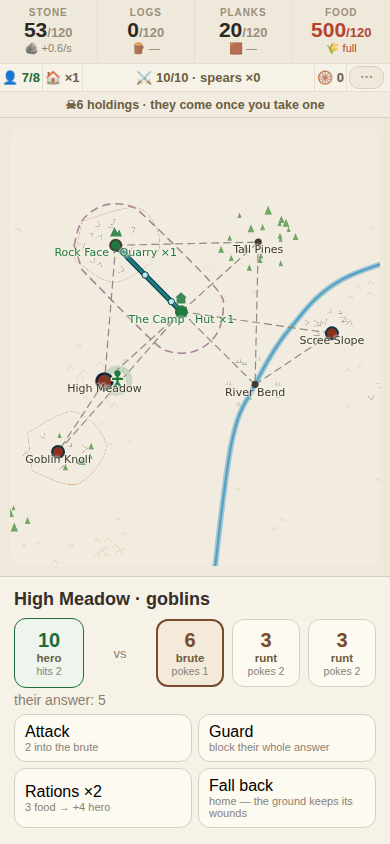
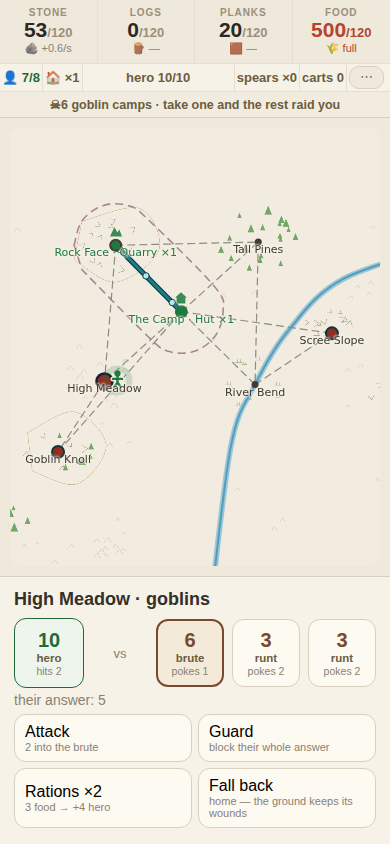
Queue 3 and the HUD half of 1: one works per place, and the words come back
ONE WORKS PER PLACE (queue 3). The owner, having put four quarries on one
rock: "there is no point in having new locations... because I'm able to
build multiple lumber works at the initial sites. So we should limit the
number to one per location." A second works is refused now, in words,
naming the alternative: "one works per place -- post hands instead". The
camp is exempt, because its works are huts and huts are housing.

That is the change that gives the map a reason to exist: more output has
to mean more GROUND -- roads, fights, holdings -- rather than another
building on the rock you already own.

CREW STAYS AT 4, and that is a decision to revisit in play rather than a
guess to bake in. Tripling it to 12 "so one works absorbs the hands the
extra buildings used to" was tried and reverted within the hour: it
rescales every tuned number in the economy at once, and broke 23 tests
whose numbers were the only record of that tuning. The valley is ten
sites, so forty working slots. If a grown town ends up with people
standing idle, the per-site cap can be raised then, with the town in
front of us.

THE WORDS COME BACK (queue 1, the HUD half).

  "I don't understand the swords. I think it's hp of the hero" -- it is,
  and the crossed swords never said so. The cell says "hero 13/13".

  "the weird symbol with a zero and a pentagram... I don't understand the
  wheel sign at all" -- asked twice across one playthrough and never
  answered. It says "carts 4".
[…]

Changed region(s): [[0.1231, 0.0616, 0.8615, 0.154], [0.4308, 0.3389, 0.4615, 0.3697]]

diff --git a/src/ui/Camp.svelte b/src/ui/Camp.svelte
@@ -409,7 +409,9 @@
     const have = game.stacks[s.id] ?? 0;
     const why = unraisable(game, s.id);
     out.push({
-      label: `${KIND_NAME[s.allows]} ×${have + 1}`,
+      // ★ ONE WORKS PER PLACE (2026-08-11), so this deed only ever raises the
+      // FIRST one and the count in the label had nothing left to count.
+      label: s.id === 0 ? `Hut ×${have + 1}` : `Build ${KIND_NAME[s.allows]}`,
       note: (why ?? `${price(costOf(s.allows, have))} `
         + `${MARK.time}${buildSecs(game, s.id)}s`)
         + (have > 0 ? ` · ${times(have)}` : ''),
@@ -774,9 +776,21 @@
         aria-label="people">👤 {Math.floor(game.pop)}/{cap}</span>
       <span class="cell" class:brim={game.pop >= cap} data-q="huts"
         aria-label="huts">🏠 {game.pop >= cap ? 'full' : `×${game.stacks[0] ?? 0}`}</span>
+      <!-- ★★★ THE WORDS WENT BACK IN, 2026-08-11. From the playthrough:
+           *"I don't understand the swords. I think it's hp of the hero"* —
+           it is, and the crossed swords never said so. And of the cart
+           wheel: *"the weird symbol with a zero and a pentagram… I don't
+           understand the wheel sign at all"*, asked twice and never answered.
+           An emoji is a decoration on a word, never a replacement for it. -->
       <span class="cell" class:hurt={game.hero.hp < heroMax(game) / 3} data-q="hero"
-        aria-label="hero">⚔ {game.hero.hp}/{heroMax(game)} · {spearLabel(game.hero.spears).toLowerCase()}</span>
-      <span class="cell" data-q="carts" aria-label="carts">🛞 {game.carts}</span>
+        aria-label="hero">hero {game.hero.hp}/{heroMax(game)}</span>
+      <!-- ⚠ NO EMOJI ON THESE THREE. With the words in, the marks pushed the
+           row into a second line and left the gear stranded on its own. The
+           word is the part that was missing; the picture was never the part
+           that was working. -->
+      <span class="cell" data-q="spears" aria-label="spears"
+        >{spearLabel(game.hero.spears).toLowerCase()}</span>
+      <span class="cell" data-q="carts" aria-label="carts">carts {game.carts}</span>
       <!-- ⚠ THE GEAR LIVES IN THIS ROW, not pinned over the top corner. It
            was absolute, and it sat on the FOOD column and clipped its label
            to "FOO" — caught in the first screenshot. A trailing `auto`
@@ -809,9 +823,12 @@
           : game.hero.trip
             ? `${MARK.hero}→${SITE.get(game.hero.trip.to)?.name ?? ''}`
             : `${MARK.hero} ${SITE.get(game.hero.at)?.name ?? ''}`}
-        · {MARK.danger}{holdings} left
+        · {MARK.danger}{holdings} camps left
       {:else if holdings > 0}
-        {MARK.danger}{holdings} holdings · they come once you take one
+        <!-- ★ WHAT A HOLDING IS, not just how many. The owner: *"why holdings
+             are with skull and bones is not quite well understood by me…
+             What is a holding? They come once you take one — who comes?"* -->
+        {MARK.danger}{holdings} goblin camps · take one and the rest raid you
       {:else}
         {MARK.danger}0 · the valley is yours
       {/if}
@@ -1010,7 +1027,10 @@
        uneven in length — "🛞 3" against "⚔ 8/10 · arms 1" — and equal shares
        clipped the hero's arms count to "arms" with nothing after it. The
        short ones take what they need; the hero takes the slack. */
-    grid-template-columns: auto auto minmax(0, 1fr) auto auto; }
+    /* ★ SIX COLUMNS SINCE 2026-08-11: spears left the hero's cell so the
+       hero's could say "hero 10/10" in words. Five columns left the gear
+       wrapping onto a row of its own. */
+    grid-template-columns: auto auto minmax(0, 1fr) auto auto auto; }
   .standings .cell { padding-left: 8px; padding-right: 8px; }
   .standings .cell { flex-direction: row; justify-content: center; gap: 4px;
     padding: 6px 2px; font-size: 13px; color: #6b5d3f; font-weight: 600;

diff --git a/test/campbuilder.test.ts b/test/campbuilder.test.ts
@@ -87,22 +87,24 @@ describe('★★ RULE 1 — buildings come in counts, on the compounding curve',
     expect(BASE.hut.planks).toBeGreaterThan(0);
   });
 
-  it('raising stacks the count and pays every part of the curve', () => {
-    // ⚠ UPDATED 2026-08-10 (build timers): a copy is ORDERED now, not
-    // conjured, so the second order waits for the first hammer to land. The
-    // fact this test protects is unchanged — two copies stand and BOTH rungs
-    // of the 1.35 curve were paid.
-    // (`crew: {1: 0}` holds the pit empty, so the ticks below advance the
-    // hammers without quarrying any stone into the arithmetic.)
+  it('★★★ ONE WORKS PER PLACE (2026-08-11) — the second is refused', () => {
+    // ⚠ REWRITTEN 2026-08-11. It used to prove that two copies stand and
+    // both rungs of the 1.35 curve get paid. Stacking works is gone — the
+    // owner, having put four quarries on one rock: *"there is no point in
+    // having new locations… we should limit the number to one per location."*
+    // More output means more GROUND now.
     let g: City = { ...initial(), stone: 99, crew: { 1: 0 },
       paths: { [pathKey(0, 1)]: 1 } };
     g = apply(g, { type: 'raise', id: 1 });
     expect(apply(g, { type: 'raise', id: 1 })).toBe(g);   // one hammer per site
     g = tick(g, BUILD_SECS.quarry);
-    g = apply(g, { type: 'raise', id: 1 });
-    g = tick(g, BUILD_SECS.quarry);
-    expect(g.stacks[1]).toBe(2);
-    expect(g.stone).toBeCloseTo(99 - costOf('quarry', 0).stone! - costOf('quarry', 1).stone!, 9);
+    expect(g.stacks[1]).toBe(1);
+    expect(g.stone).toBeCloseTo(99 - costOf('quarry', 0).stone!, 9);
+    // ★ AND THE SECOND WORKS IS REFUSED, in words, with the alternative named.
+    expect(unraisable(g, 1)).toBe('one works per place — post hands instead');
+    expect(apply(g, { type: 'raise', id: 1 })).toBe(g);
+    // ⚠ THE CAMP IS EXEMPT: its works are HUTS, and huts are housing.
+    expect(unraisable({ ...initial(), planks: 9e5 }, 0)).toBeNull();
   });
 
   it('★ a copy holds a CREW, and output is per worker', () => {
@@ -1954,9 +1956,11 @@ describe('★★★ A WORKS TAKES TIME TO RAISE', () => {
     // ⚠ FLAT, NOT ON THE CURVE: copy #9 takes exactly as long as copy #1.
     // The COST already climbs 1.35^n; taxing the clock too would wall the
     // ladder. If that is ever reversed, this is the line that says so.
-    let g = site({ stacks: { 1: 8 }, stone: 9e5 });
-    g = apply(g, { type: 'raise', id: 1 });
-    expect(g.raising[1]!.secs).toBe(BUILD_SECS.quarry);
+    // ⚠ MEASURED AT THE CAMP SINCE 2026-08-11: only huts stack now, so the
+    // camp is the only place a second order can be placed at all.
+    let g = site({ stacks: { 0: 8 }, planks: 9e5 });
+    g = apply(g, { type: 'raise', id: 0 });
+    expect(g.raising[0]!.secs).toBe(BUILD_SECS.hut);
   });
 
   it('★★ a refused raise starts no job at all — the gates come first', () => {

diff --git a/src/camp/engine.ts b/src/camp/engine.ts
@@ -563,6 +563,25 @@ export const storeCost = (have: number): { stone: number; planks: number } => ({
  *  are capacity. Two hands on quarry #1 is exactly the old copy, so
  *  minute zero is untouched; a full crew is twice it. */
 export const CREW = 4;
+/** ★★★ ONE WORKS PER SITE, 2026-08-11. The owner, having built four quarries
+ *  on one rock: *"there is no point in having new locations… because I'm able
+ *  to build multiple lumber works at the initial sites. So we should limit
+ *  the number to one per location. And then we should allow to add more
+ *  people there."*
+ *
+ *  That is the change that gives the MAP a reason to exist: with a site
+ *  capped at one works, more output has to mean more GROUND — which means
+ *  roads, fights and holdings — rather than another building on the rock you
+ *  already own.
+ *
+ *  ⚠ `CREW` STAYS AT 4, AND THAT IS A DECISION TO REVISIT IN PLAY. Raising
+ *  it to 12 "so one works absorbs the hands the buildings used to" was tried
+ *  and reverted: it rescales every tuned number in the economy at once, on a
+ *  guess, and the whole valley is only ten sites — forty working slots, which
+ *  is a lot of hands. If a grown town ends up with people standing idle, the
+ *  fix is to raise the per-site cap THEN, with the town in front of us.
+ *  ⚠ The camp is exempt: its "works" are HUTS, and huts are housing. */
+export const WORKS_MAX = 1;
 
 /** Output per WORKER per second. */
 export const RATE = { quarry: 0.15, lumber: 0.2, sawmill: 0.25, farm: 0.2 } as const;
@@ -1253,6 +1272,9 @@ export function unraisable(g: City, id: number): string | null {
   // It is also what keeps the price honest: with a job in flight `stacks`
   // has not moved yet, so a second order would buy copy #n twice.
   if (g.raising[id]) return 'already raising';
+  // ★ ONE WORKS PER SITE (2026-08-11) — see WORKS_MAX. More output means more
+  // ground now, not more buildings on the ground you hold.
+  if (id !== 0 && (g.stacks[id] ?? 0) >= WORKS_MAX) return 'one works per place — post hands instead';
   return shortOf(g, costOf(s.allows, g.stacks[id] ?? 0));
 }
 
